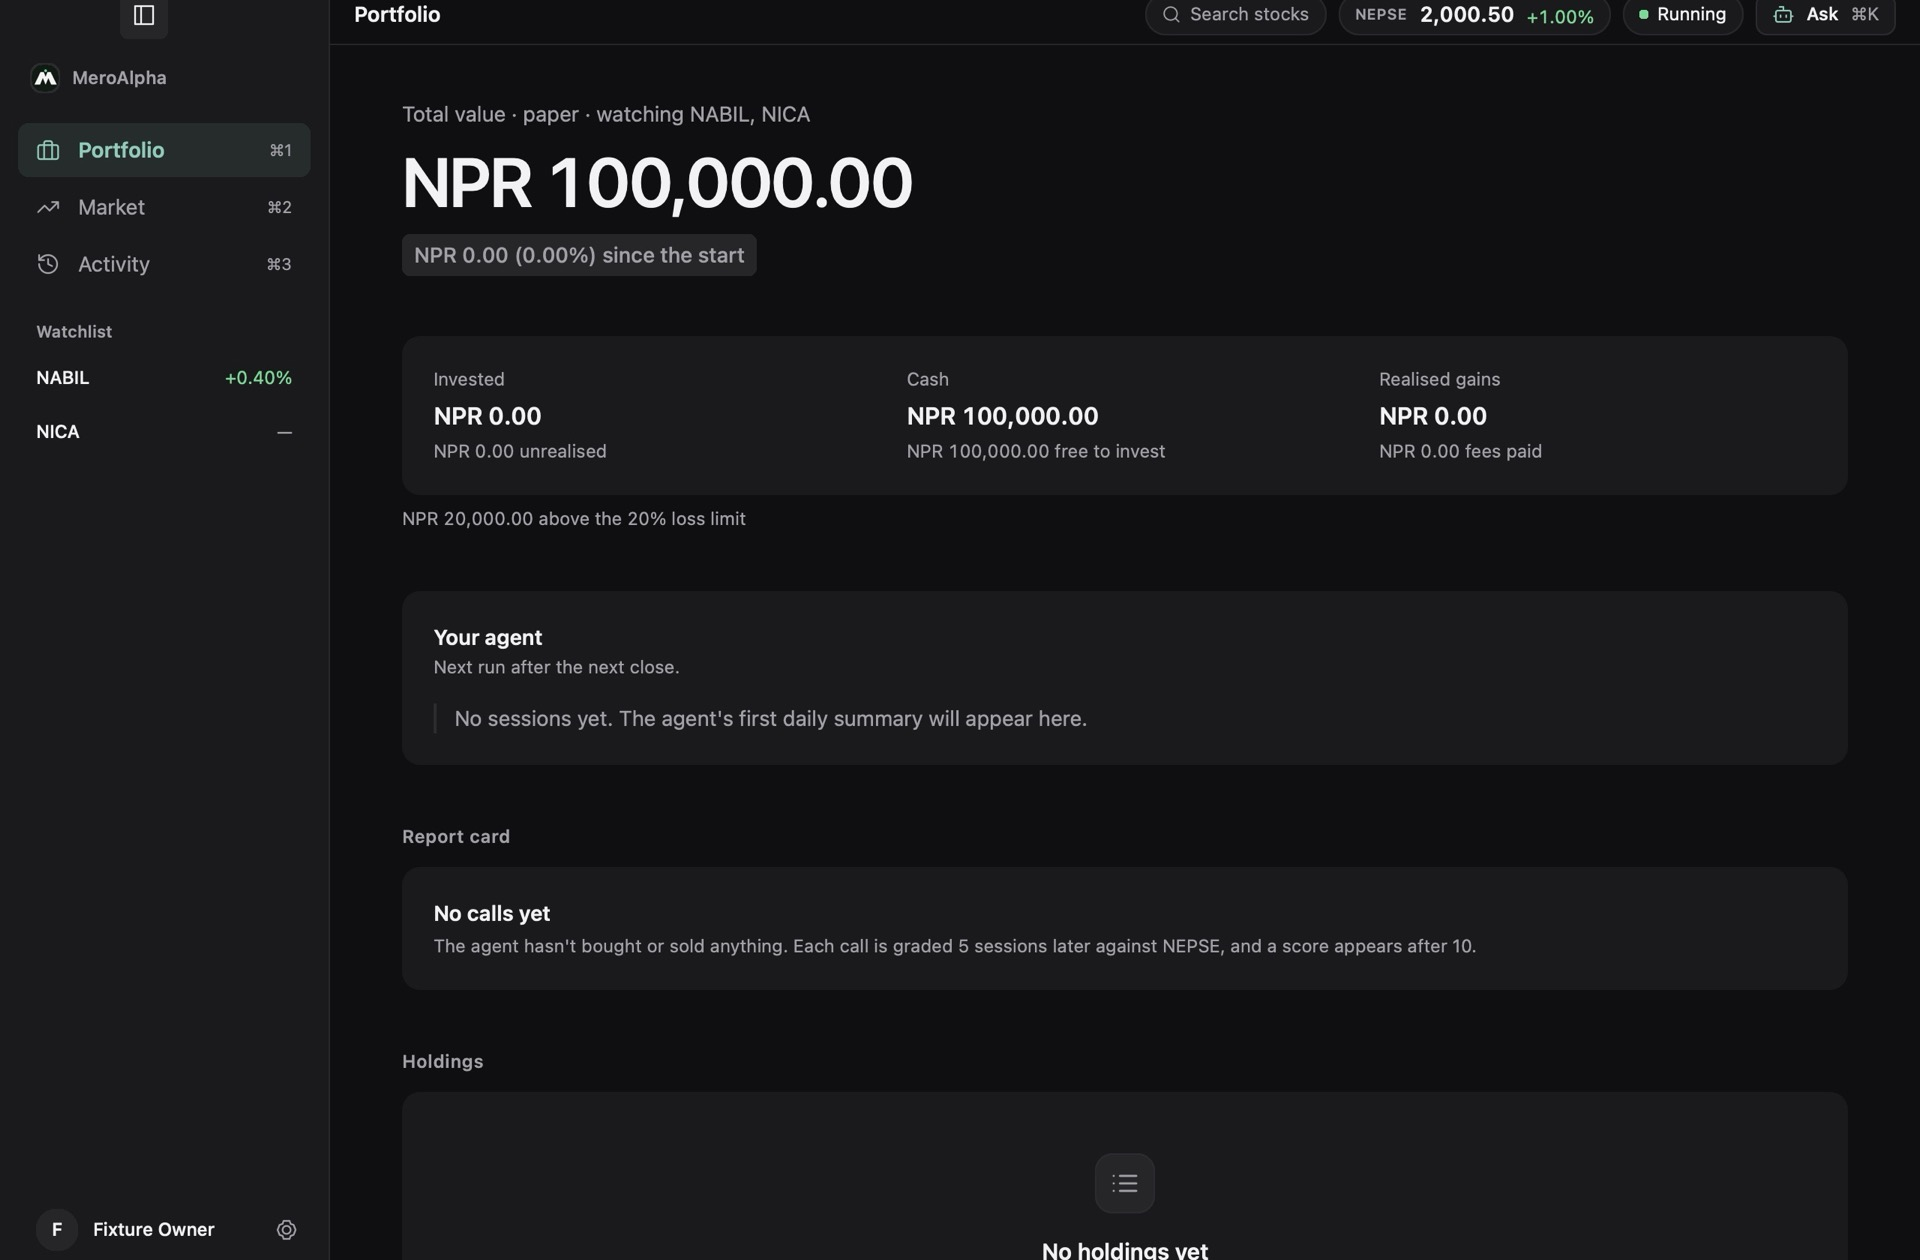
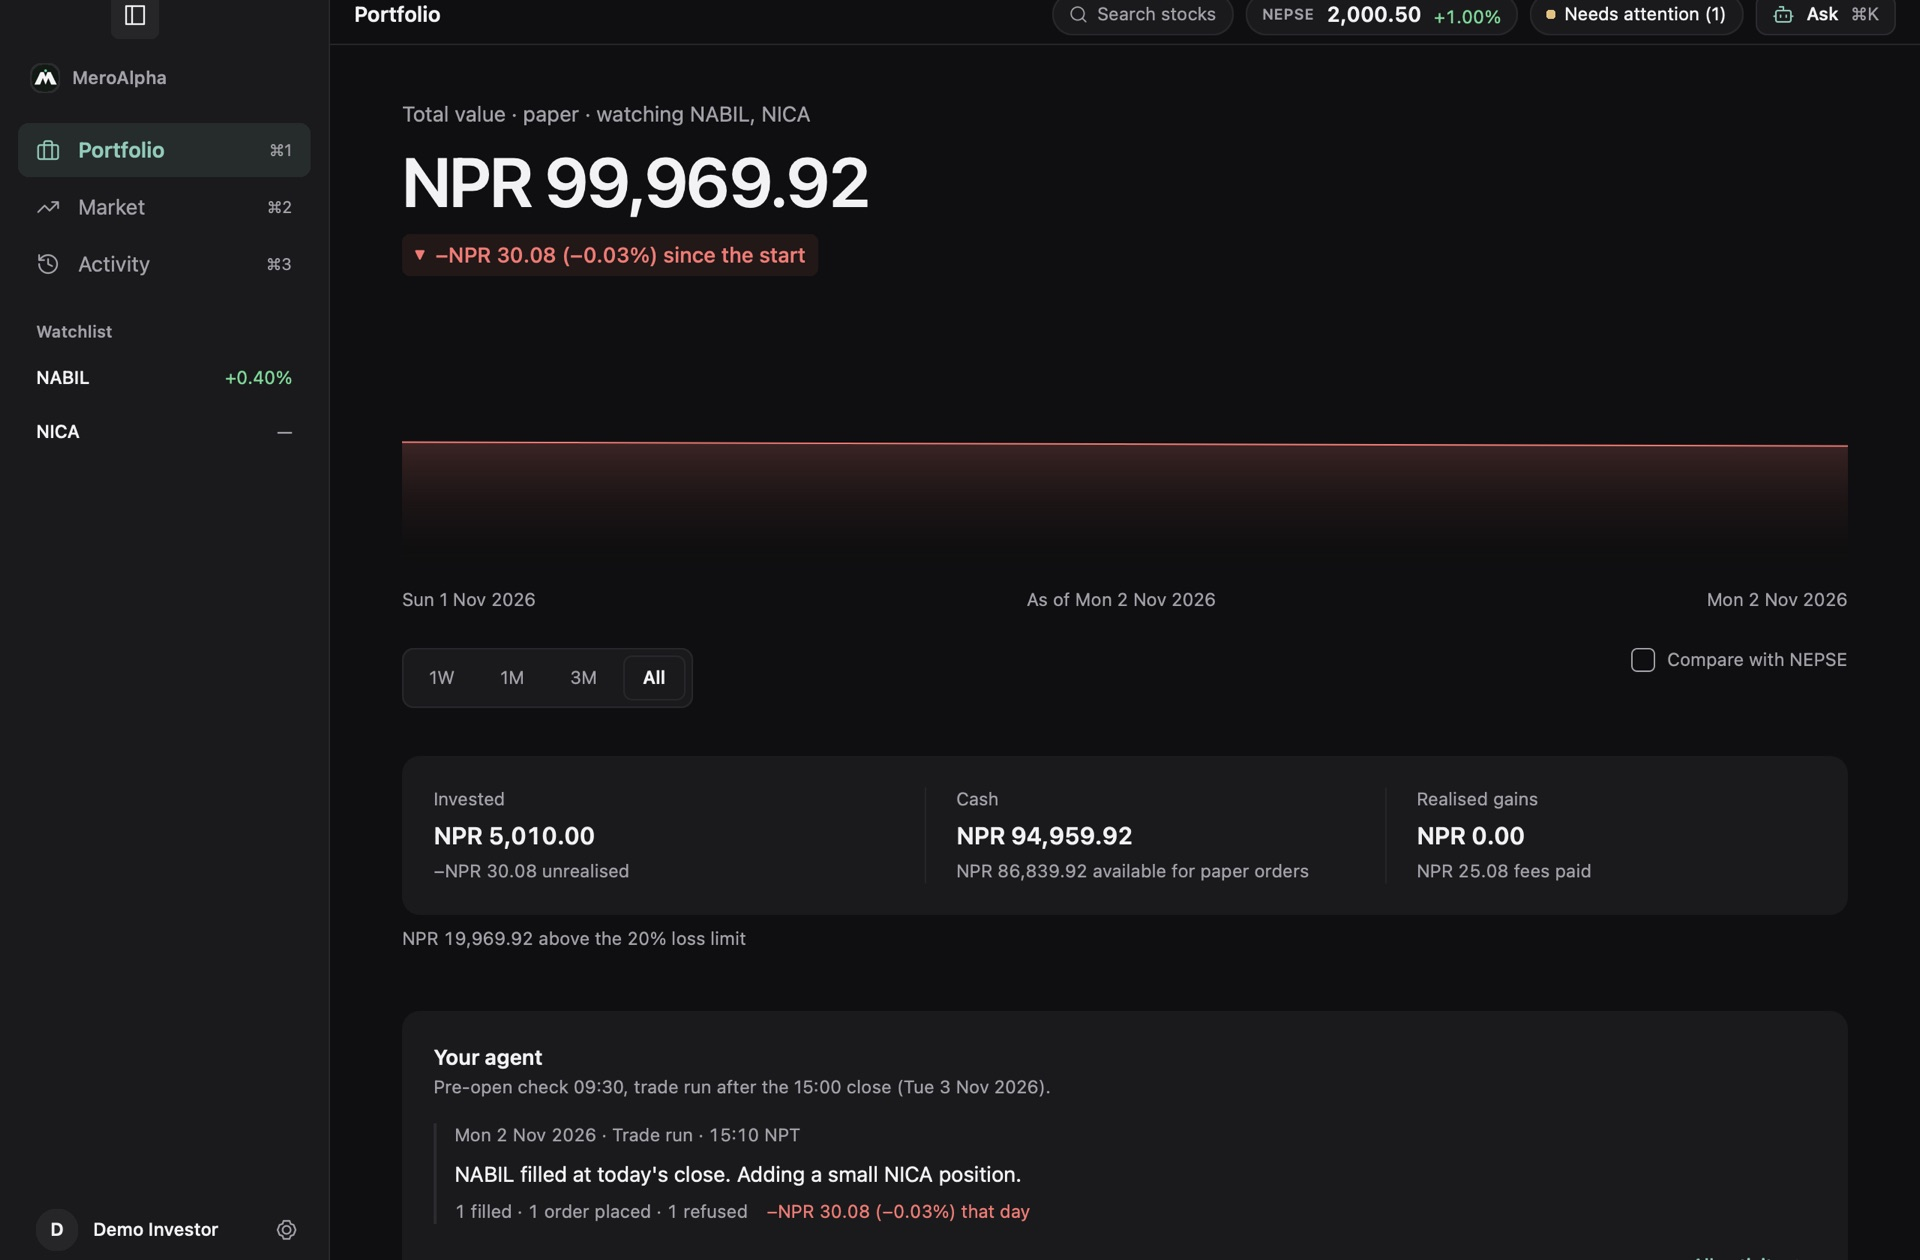
feat(site): Fresh app screens on sample data, an upright phone hero and plain copy
- Screens: re-shot on the app's demo tour fixture. Sample data and Demo Investor
  instead of "Fixture", prices that move like prices, the stock page from the
  top, and the portfolio after a session instead of an empty account.
- Hero: the Ask panel answering a question with two cited sources; on phones an
  upright crop of that panel, readable, instead of a tilted miniature window.
- Copy: "No new entries after 14:30 NPT" ("Stops at…" read like a stop-loss),
  "Works with Claude or Codex" instead of ACP jargon, and alt text and captions
  that describe what each screen now shows.
- Headings: /waitlist gets its h1 and /story no longer skips from h1 to h3;
  Section, CardGrid and Timeline take a heading level that keeps their look.

diff --git a/src/components/Screenshot.tsx b/src/components/Screenshot.tsx
@@ -1,10 +1,16 @@
 // An app screenshot in the viewer's light or dark, from assets/light-<name> and assets/dark-<name>.
-type Props = { name: string; alt: string; className?: string; priority?: boolean };
+// `phone` names a tall crop (assets/light-<phone>, assets/dark-<phone>, 720×1400) shown on narrow screens instead,
+// where the whole window would be too small to read.
+type Props = { name: string; alt: string; className?: string; priority?: boolean; phone?: string };
 
-export default function Screenshot({ name, alt, className, priority }: Props) {
+const NARROW = '(max-width: 40rem)';
+
+export default function Screenshot({ name, alt, className, priority, phone }: Props) {
   return (
     <figure className={['shot', className].filter(Boolean).join(' ')}>
       <picture>
+        {phone && <source media={`${NARROW} and (prefers-color-scheme: dark)`} srcSet={`/assets/dark-${phone}`} width={720} height={1400} />}
+        {phone && <source media={NARROW} srcSet={`/assets/light-${phone}`} width={720} height={1400} />}
         <source media="(prefers-color-scheme: dark)" srcSet={`/assets/dark-${name}`} />
         <img src={`/assets/light-${name}`} width={1920} height={1260} alt={alt}
           {...(priority ? { fetchPriority: 'high' as const } : { loading: 'lazy' as const })} />

diff --git a/src/styles/landing.css b/src/styles/landing.css
@@ -23,6 +23,7 @@
 .hud--b { bottom: 14%; left: -10%; animation-delay: -2.5s; }
 .hud--c { bottom: -4%; right: 12%; animation-delay: -5s; }
 @keyframes float { to { transform: translateY(-14px); } }
+@keyframes rise-flat { from { opacity: 0; transform: translateY(40px); } }
 
 /* Marquee */
 .marquee { overflow: hidden; border-block: 1px solid var(--hair); -webkit-mask-image: linear-gradient(90deg, transparent, #000 10%, #000 90%, transparent); mask-image: linear-gradient(90deg, transparent, #000 10%, #000 90%, transparent); }
@@ -82,6 +83,9 @@
 @media (max-width: 40rem) {
   .hero { padding-top: var(--space-2xl); }
   .hud { display: none; }
+  /* The phone crop of the Ask panel, upright and readable rather than a tilted miniature of the window. */
+  .shot--hero { transform: none; animation-name: rise-flat; max-width: 22rem; margin-inline: auto; }
+  .hero__stage:hover .shot--hero { transform: none; }
   .data__list, .products__list { grid-template-columns: minmax(0, 1fr); }
   .close__card { padding: var(--space-2xl) var(--space-md); }
 }

diff --git a/src/styles/base.css b/src/styles/base.css
@@ -7,6 +7,8 @@ body { margin: 0; background: var(--color-paper); color: var(--color-ink); font-
 a { color: inherit; text-decoration-thickness: 1px; text-underline-offset: 0.16em; }
 h1, h2, h3 { margin: 0; font-family: var(--font-display); font-weight: var(--display-weight, 700); font-synthesis: none; letter-spacing: var(--tracking-display); line-height: 1.05; overflow-wrap: break-word; min-width: 0; text-wrap: balance; }
 h1 { max-width: 20ch; font-size: var(--text-display); } h2 { max-width: 30ch; font-size: var(--text-section); } h3 { max-width: 40ch; font-size: var(--text-title); line-height: 1.2; }
+/* A heading at one level that looks like another, so the outline is right without changing the design. */
+h1.as-h2 { max-width: 30ch; font-size: var(--text-section); } h2.as-h3 { max-width: 40ch; font-size: var(--text-title); line-height: 1.2; }
 .lead { font-size: var(--text-lead); line-height: 1.45; max-width: 52ch; }
 p { margin: 0; text-wrap: pretty; }
 p:not([class]) { max-width: 65ch; }

diff --git a/src/styles/site.css b/src/styles/site.css
@@ -95,7 +95,7 @@ h2 { color: var(--color-ink); }
 .card-grid { list-style: none; margin: 0; padding: 0; display: grid; grid-template-columns: repeat(var(--cols), minmax(0, 1fr)); gap: var(--space-lg); }
 .card-grid--2 { --cols: 2; } .card-grid--3 { --cols: 3; }
 .card-grid li { display: grid; gap: var(--space-sm); align-content: start; padding: var(--space-lg); }
-.card-grid h3 { font-size: var(--text-lg); }
+.card-grid h3, .card-grid .as-h3 { font-size: var(--text-lg); }
 .card-grid p:not(.kicker) { color: var(--color-muted); }
 
 /* Timeline: cards on a lit rail */
